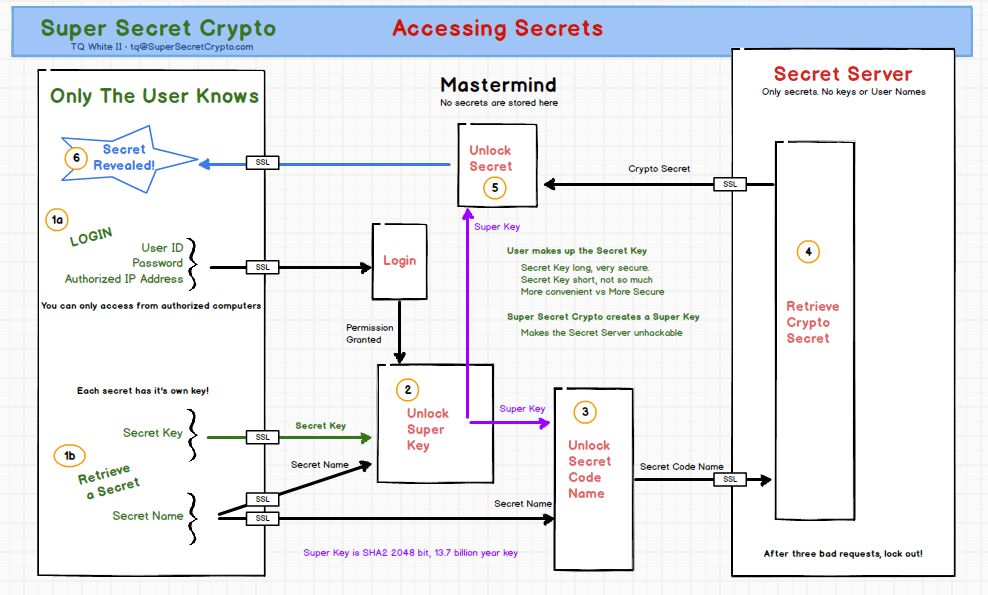
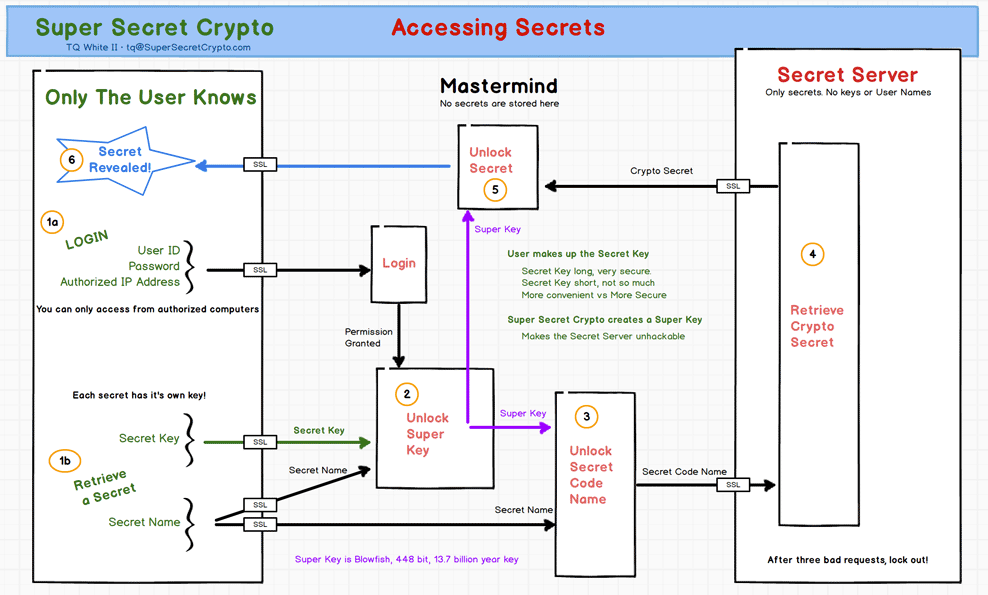
changed some text on intro

Changed region(s): [[0.0, 0.0, 1.0, 0.9983], [0.3947, 0.0, 0.6073, 0.0605], [0.668, 0.0, 0.6984, 0.0303]]

diff --git a/client/utility/intro.html b/client/utility/intro.html
@@ -7,7 +7,7 @@
 <div class='headline'>Super Secret Crypto: Where Secrets go to Hide</div>
 
 <p>
-Super Secret Crypto is a web-based service that allows the secure storage and sharing of secrets. It applies several strategies to insure that secrets are as safe as possible from hackers, legal authorities and user error.  Inside the system, all secrets are encrypted with state of the art SHA2 algorithm using a maximum 2048 bit, random Super Key.
+Super Secret Crypto is a web-based service that allows the secure storage and sharing of secrets. It applies several strategies to insure that secrets are as safe as possible from hackers, legal authorities and user error.  Inside the system, all secrets are encrypted with the Blowfish algorithm using a 448 bit, random Super Key that would take <span title='2,000,000,000,000,000,000,000,000,000,000,000,000,000,000,000,000 years if every atom in the univers was a computer that could check one key per second' style='color:#444;'>trillions</span> of years to crack.
 </p>
 
 <div class='subHead'>Saving Secrets Securely</div>
